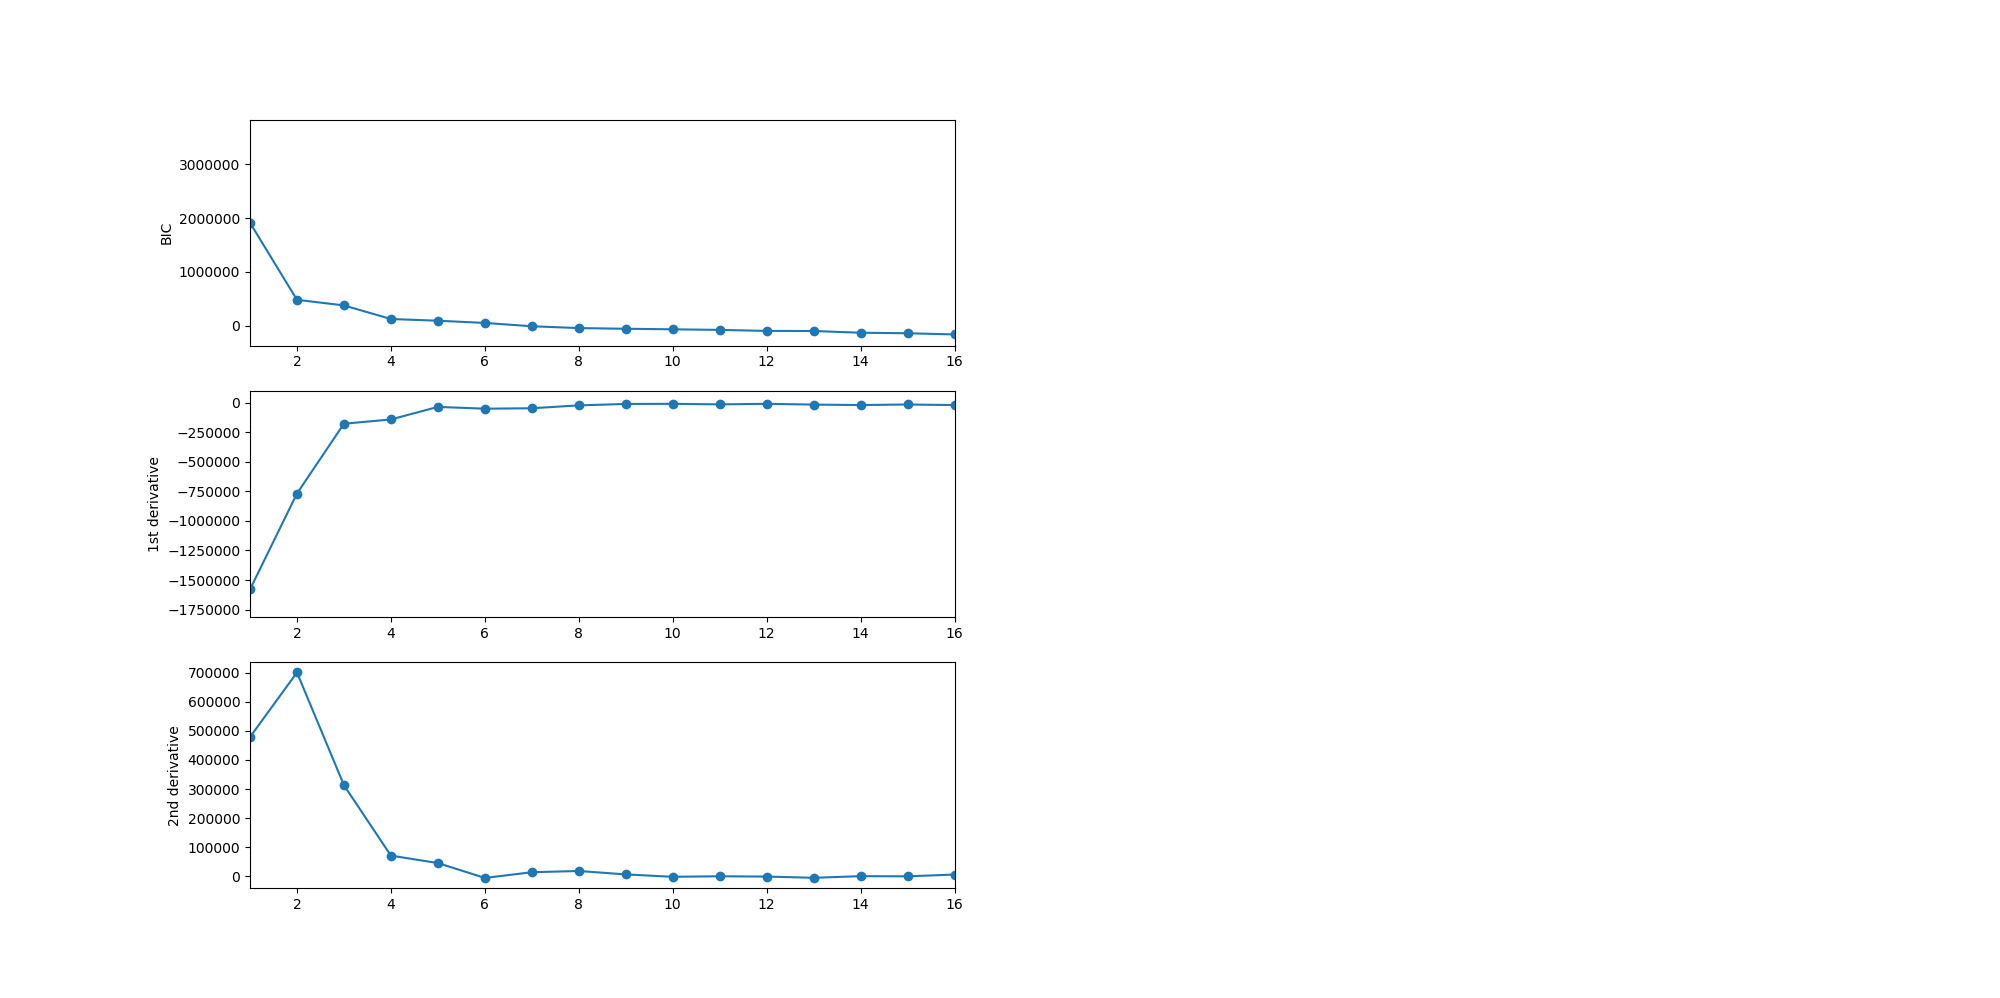
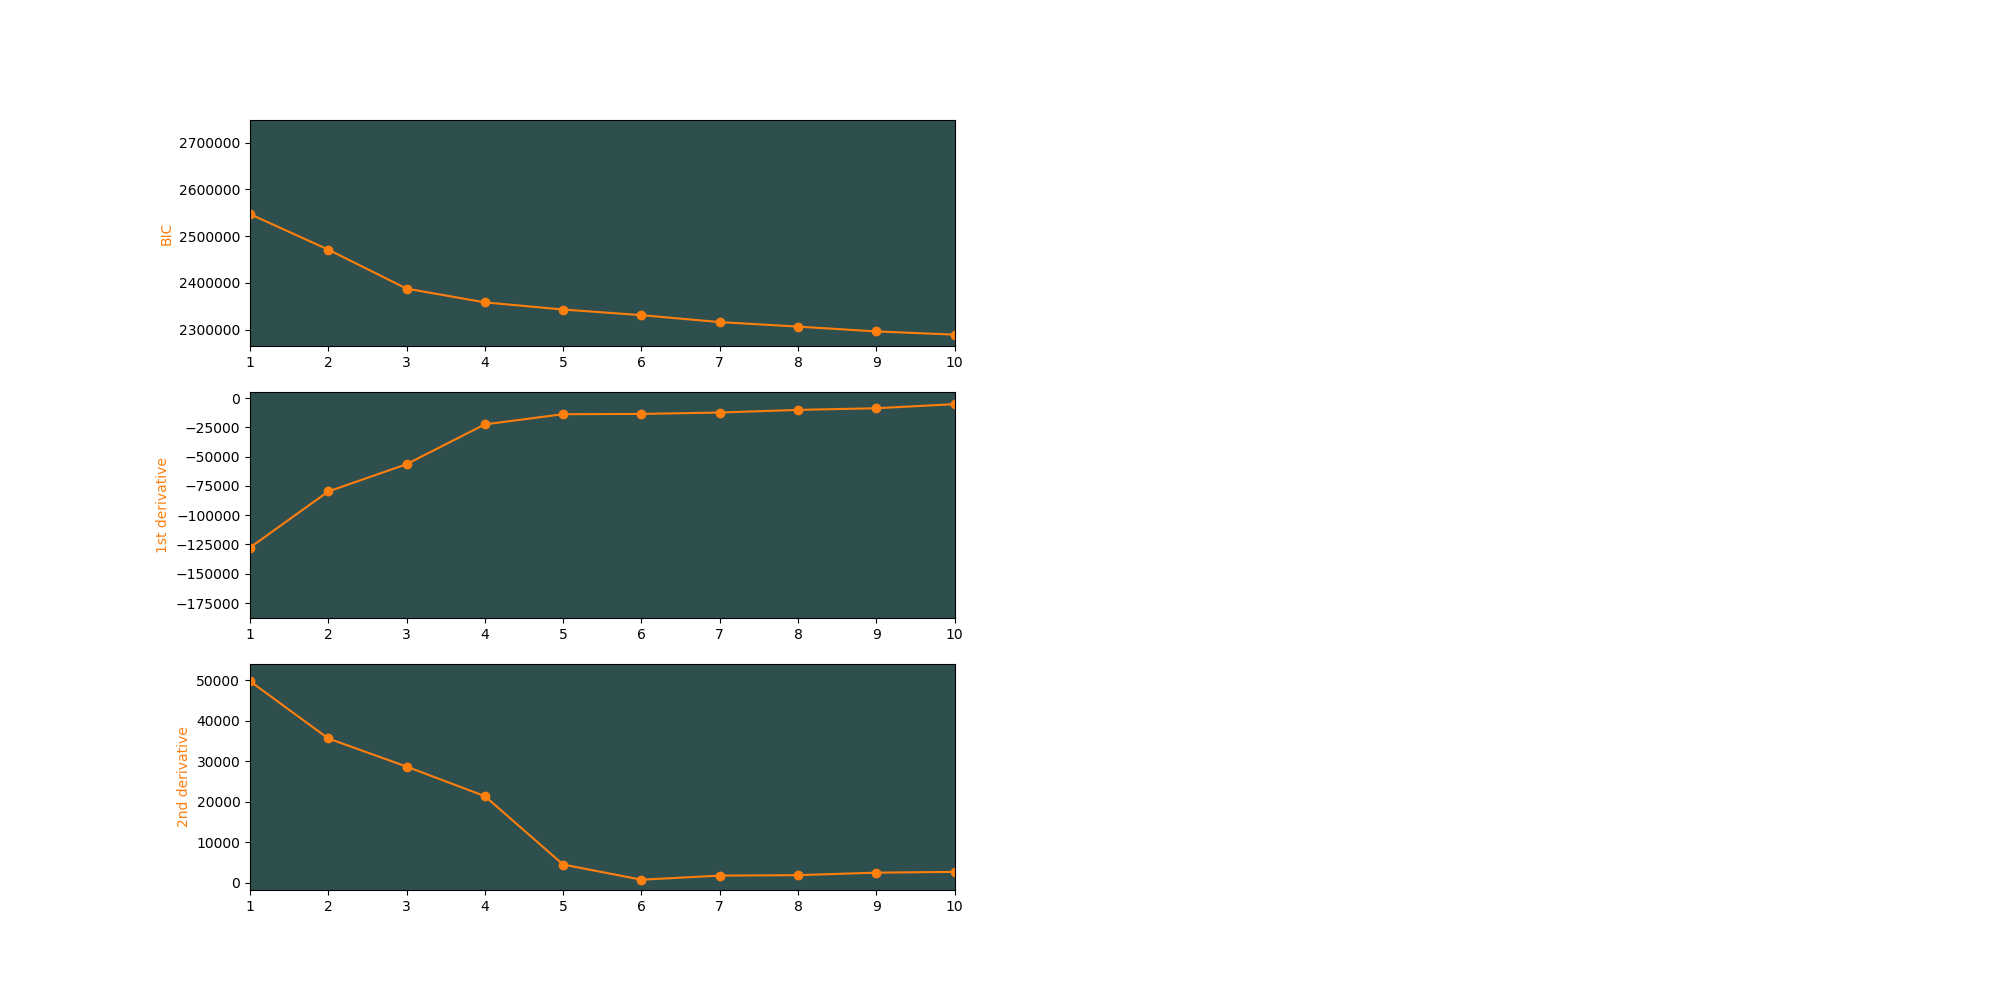
plotting BIC curves

Changed region(s): [[0.062, 0.0932, 0.496, 0.6212], [0.062, 0.6523, 0.496, 0.9008]]

diff --git a/main.py b/main.py
@@ -1,15 +1,16 @@
 import numpy as np
 import pandas as pd
-import matplotlib.pyplot as plt
-import matplotlib.colors as colors
 from mpl_toolkits.axes_grid1 import make_axes_locatable
 from sklearn.preprocessing import StandardScaler
 from sklearn import mixture
 from sklearn import svm
 from sklearn.metrics import classification_report
-from  sklearn.cross_validation import train_test_split
+from sklearn.cross_validation import train_test_split
 from sklearn.metrics import confusion_matrix
 from classification_utilities import display_cm, display_adj_cm
+from tqdm import tqdm
+import matplotlib.pyplot as plt
+import matplotlib.colors as colors
 
 '''
     Reads the processed datasets (las files)
@@ -46,22 +47,21 @@ def derivatives_calc(bic_mean_cluster):
     Computes the Bayesian Inference Criterion for different number of clusters
     Additionally, computes the first and second derivatives of them
 '''
-def compute_BIC(scaled_features, covariance_type='full', max_clusters=10):
-    cluster_ref = range(1, max_clusters) 
+def compute_BIC(scaled_features, covariance_type='full', max_clusters=12):
+    cluster_ref = np.arange(1, max_clusters+1)
     iters = 10 # number of iterations
 
     bic_mean_cluster = np.zeros((len(cluster_ref),)*1) 
     bic_std_cluster = np.zeros((len(cluster_ref),)*1) 
 
-    for i in range(len(cluster_ref)):  
-        print(i)
+    for i in tqdm(range(max_clusters)):  
         bic = []
         for _ in range(iters):
-            gmm = mixture.GaussianMixture(cluster_ref[i], covariance_type)\
-                                                     .fit(scaled_features)
+            gmm = mixture.GaussianMixture(cluster_ref[i-1], covariance_type)\
+                                                       .fit(scaled_features)
             bic.append(gmm.bic(scaled_features))
-        bic_mean_cluster[i] = np.mean(bic)
-        bic_std_cluster[i] = np.std(bic)
+        bic_mean_cluster[i-1] = np.mean(bic)
+        bic_std_cluster[i-1] = np.std(bic)
 
     der_1st, der_2nd = derivatives_calc(bic_mean_cluster)
     return bic_mean_cluster, der_1st, der_2nd   
@@ -70,24 +70,25 @@ def compute_BIC(scaled_features, covariance_type='full', max_clusters=10):
     Plots the BIC values corresponding to each cluster
     Additionally plots the first and second derivatives of the BIC curve 
 '''
-def plot_BIC(bic_mean_cluster, der_1st, der_2nd, max_clusters=10):
+def plot_BIC(bic_mean_cluster, der_1st, der_2nd, max_clusters=10):    
     plt.figure(figsize=(20,10))
 
-    plt.subplot(3,2,1)
-    plt.plot(bic_mean_cluster, marker='o')
+    plt.subplot(321, facecolor='darkslategray')
+    plt.plot(bic_mean_cluster, 'C1', marker='o')
     plt.xlim(1, max_clusters)
-    plt.ylabel("BIC")
+    plt.ylabel("BIC", color='C1')
 
-    plt.subplot(3,2,3)
-    plt.plot(der_1st, marker='o')
+    plt.subplot(323, facecolor='darkslategray')
+    plt.plot(der_1st, 'C1', marker='o')
     plt.xlim(1, max_clusters)
-    plt.ylabel("1st derivative")
+    plt.ylabel("1st derivative", color='C1')
 
-    plt.subplot(3,2,5)
-    plt.plot(der_2nd, marker='o')
+    plt.subplot(325, facecolor='darkslategray')
+    plt.plot(der_2nd, 'C1', marker='o')
     plt.xlim(1, max_clusters)
-    plt.ylabel("2nd derivative")
+    plt.ylabel("2nd derivative", color='C1')
 
+    plt.savefig('BIC_firstder_secondder.png')
     plt.show()
 
 '''
@@ -98,7 +99,7 @@ def plot_BIC(bic_mean_cluster, der_1st, der_2nd, max_clusters=10):
 def get_accuracy(confusion_matrix):
     total_correct = 0.
     num_classes = confusion_matrix.shape[0]
-    for i in np.arange(num_classes):
+    for i in range(num_classes):
         total_correct += confusion_matrix[i][i]
     acc = total_correct/sum(sum(confusion_matrix))
     
@@ -142,7 +143,6 @@ def compare_facies_plot_VMG(logs, arg_1, facies_colors, num_clusters, labels):
             facies_colors[0:len(facies_colors[0:num_clusters])], 'indexed')
     
     ztop=logs[:,0].min(); zbot=logs[:,0].max()
-    
     cluster1 = np.repeat(np.expand_dims(logs[:,4],1), 100, 1)
     
     f, ax = plt.subplots(nrows=1, ncols=4, figsize=(9, 12))
@@ -150,11 +150,12 @@ def compare_facies_plot_VMG(logs, arg_1, facies_colors, num_clusters, labels):
     ax[1].plot(logs[:,2], logs[:,0], '-')
     ax[2].plot(logs[:,3], logs[:,0], '-', color='r')
     im1 = ax[3].imshow(cluster1, interpolation='none', aspect='auto',
-                       cmap=cmap_facies,vmin=1,vmax=num_clusters)
+                       cmap=cmap_facies, vmin=1, vmax=num_clusters)
         
     divider = make_axes_locatable(ax[3])
     cax = divider.append_axes("right", size="20%", pad=0.05)
-    cbar = plt.colorbar(im1, cax=cax)
+    cbar = plt.colorbar(im1, cax=cax, 
+                        ticks=[x+1 for x in list(range(num_clusters))])
         
     for i in range(len(ax)-1):
         ax[i].set_ylim(ztop,zbot)
@@ -172,9 +173,9 @@ def compare_facies_plot_VMG(logs, arg_1, facies_colors, num_clusters, labels):
     
     ax[1].set_yticklabels([]); ax[2].set_yticklabels([]) 
     ax[3].set_yticklabels([]); ax[3].set_xticklabels([])
-    textstr = '\n'.join((r'WELL ID: %s' % (labels[-1], ),
-                         r'$\mathrm{Latitude}: %.8f$' % (labels[0], ),
-                         r'$\mathrm{Longitude}: %.8f$' % (labels[1], )))
+    textstr = '\n'.join((r'WELL ID: %s' % (labels[-1],),
+                         r'$\mathrm{Latitude}: %.8f$' % (labels[0],),
+                         r'$\mathrm{Longitude}: %.8f$' % (labels[1],)))
     f.suptitle(textstr)   
     plt.savefig('results\%s.pdf'%(labels[-1]))
     plt.show()
@@ -184,9 +185,9 @@ def main():
     scaled_features = standardize(feature_vectors)
     #bic_mean_cluster, der_1st, der_2nd = compute_BIC(scaled_features)
     #plot_BIC(bic_mean_cluster, der_1st, der_2nd)
-    num_clusters = 8     
+    num_clusters = 5   
     d = validate_GMM(B15_data, scaled_features, num_clusters, 
-                          covariance_type='full')
+                     covariance_type='full')
     
     facies_colors = ['#FFE500', '#d2b48c','#DC7633','#6E2C00', '#FF0000', 
                      '#0000FF', '#00FFFF', '#a45dbd', '#187e03','#000000', 
